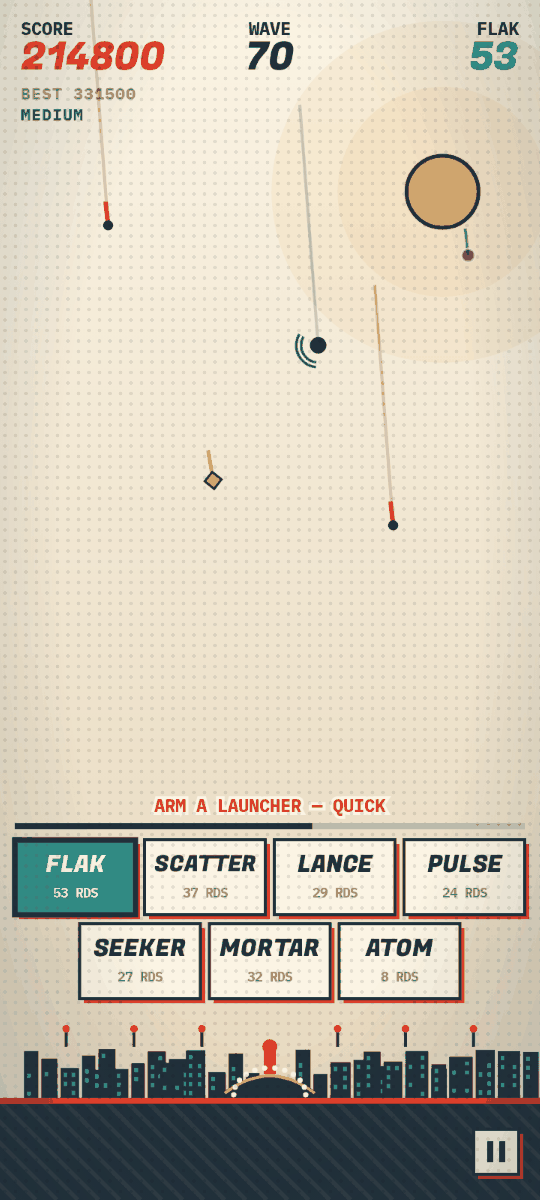
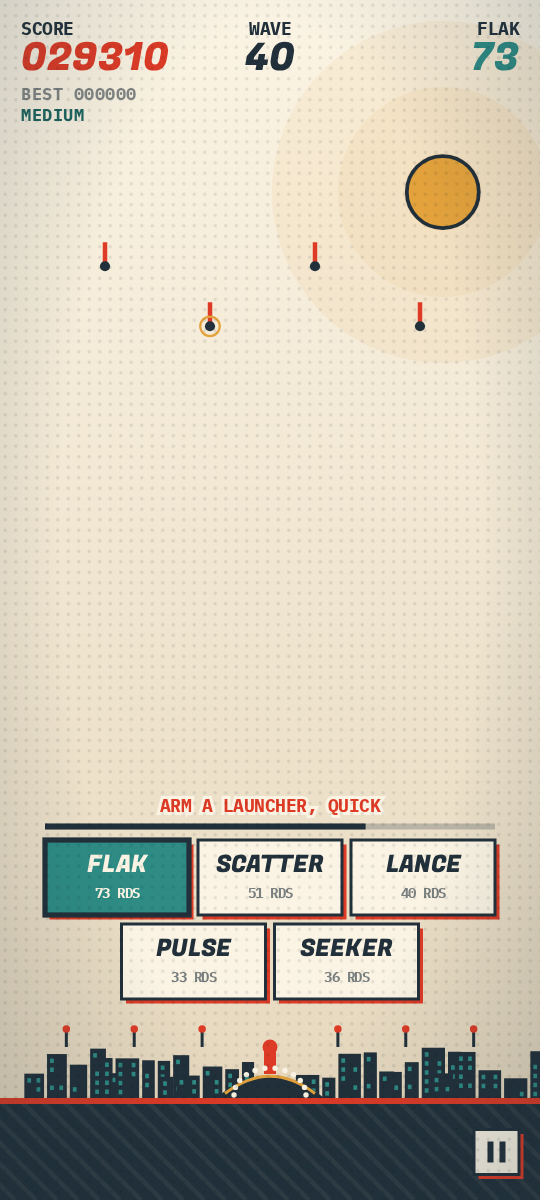
Stop the landing page naming the late threats, and rebuild the screenshots
The "What is coming for you" card listed the splitters, dodgers, armoured,
hunters, shielded, phantoms, burrowers and carriers by name, and the
screenshot caption counted them. Players are meant to meet those without
introduction, which is why the store description already stopped naming
them.

Four screenshots rebuilt from the committed tool at the same time.

These changes were already written and sitting uncommitted in the working
tree; this commit only records them, so they reach the live site with the
availability fix rather than being left behind by it.

Claude-Session: https://claude.ai/code/session_01GUrVy3MhHNLtC6Zt6tLXUq

diff --git a/atomic-defence/demo/index.html b/atomic-defence/demo/index.html
@@ -252,6 +252,10 @@ function saveSettings() {
 /* ------------------------------------------------------------------ */
 const nativeHaptics = (window.Capacitor && window.Capacitor.Plugins &&
                        window.Capacitor.Plugins.AtomicHaptics) || null;
+/* Present only inside the packaged app, which is exactly where a rating
+   button makes sense: there is nothing to rate from the web demo. */
+const nativeStore = (window.Capacitor && window.Capacitor.Plugins &&
+                     window.Capacitor.Plugins.AtomicStore) || null;
 // Web fallback: the Vibration API has no amplitude, so only duration varies.
 const HAPTIC_FALLBACK = {
   launch:      12,
@@ -337,6 +341,47 @@ let score = 0, highScore = loadHighScore(), wave = 0;
 let shots = 0, kills = 0, bestChain = 1;
 
 /* High score table: local top 10, arcade three-initial entries. */
+/* In-app review, at a natural moment rather than behind a button. Google bars
+   the API from call-to-action buttons, because the quota may silently show
+   nothing and a dead button reads as broken; the RATE THIS GAME plate is a
+   plain store intent for that reason. This is the case the API is actually
+   for: "a strategic moment in the user journey (after they've used enough of
+   the app)". Asked once, on the menu, after a few finished runs, and never
+   preceded by a question of our own, which the guidance also forbids. */
+const PLAYS_KEY = 'atomic-defence.plays';
+const RATE_KEY = 'atomic-defence.rateAsked';
+const RATE_MIN_RUNS = 3;        // never on a first flush of beginner's luck
+let ratePending = 0;            // seconds left to wait once back at the menu
+
+/* Called when a run ends, with whether it ended WELL: a new personal best, a
+   place on the local table, or the whole game finished. Asking after a good
+   run rather than after a fixed count of them puts the question where the
+   player is pleased with themselves. The run count still applies, because on
+   an empty table the very first run qualifies for it by default. */
+function finishRun(good) {
+  let plays;
+  try {
+    plays = (parseInt(localStorage.getItem(PLAYS_KEY), 10) || 0) + 1;
+    localStorage.setItem(PLAYS_KEY, String(plays));
+    if (localStorage.getItem(RATE_KEY) === '1') return;
+  } catch (e) { return; }       // private mode: no counter, so never ask
+  if (good && plays >= RATE_MIN_RUNS && nativeStore) ratePending = 0.9;
+}
+
+/* Fires on the menu rather than over the game-over card, so the card is not
+   buried and the player is not asked to rate the moment they lost. */
+function maybeReview(dt) {
+  if (!ratePending || mode !== MODE.MENU) return;
+  ratePending -= dt;
+  if (ratePending > 0) return;
+  ratePending = 0;
+  try { localStorage.setItem(RATE_KEY, '1'); } catch (e) {}
+  // Play decides whether the card appears and tells us nothing useful either
+  // way. Nothing depends on the outcome and the player is never told it was
+  // attempted, so there is nothing to report and nothing to draw.
+  nativeStore.review().catch(() => {});
+}
+
 const TABLE_KEY = 'atomic-defence.table';
 const TABLE_MAX = 10;
 function loadTable() {
@@ -463,6 +508,19 @@ const THREAT_SCORE = {
   std: 100, smart: 150, heavy: 300, bomber: 250,
   hunter: 350, shielded: 400, phantom: 450, burrower: 500, carrier: 800
 };
+/* Roughly what each threat costs to put down, in rounds, against a plain
+   warhead at 1.0. Armour soaks a hit, shields waste one outright, dodgers and
+   phantoms make you miss. The magazine is scaled by the wave's average so a
+   late mix of the awkward ones does not quietly starve you. */
+const THREAT_COST = {
+  std: 1, smart: 1.35, heavy: 2.2, hunter: 1.5,
+  shielded: 1.8, phantom: 1.6, burrower: 1.45
+};
+/* How often a kill takes the warhead's payload with it, and how far that
+   secondary reaches. A plain flak burst is 58, so a cook-off covers rather
+   more than two and a half times the area and is worth chasing. */
+const COOKOFF_CHANCE = 0.16;
+const COOKOFF_R = 96;
 
 /* ------------------------------------------------------------------ */
 /* Launchers                                                          */
@@ -492,6 +550,10 @@ const LAUNCHERS = [
 const LAUNCHER_BY_ID = {};
 LAUNCHERS.forEach(l => { LAUNCHER_BY_ID[l.id] = l; });
 
+/* Half-width of the lance's kill corridor. The beam is drawn from this same
+   number, so what it sweeps is what it looks like it sweeps. */
+const LANCE_R = 34;
+
 let launcher = 'flak';          // chosen for the current wave
 let pickTimer = 0;              // seconds left to choose; 0 = choice closed
 let shotsThisWave = 0;
@@ -505,7 +567,8 @@ function launcherAmmoFactor() {
 }
 function baseAmmo(cfg, l) {
   const factor = l ? l.ammo : launcherAmmoFactor();
-  return Math.max(3, Math.round((11 + cfg.count * 0.9) * factor * diff().ammo));
+  return Math.max(3, Math.round((11 + cfg.count * 0.9) * mixCost(wave)
+                                * factor * diff().ammo));
 }
 function chooseLauncher(id) {
   if (!LAUNCHER_BY_ID[id] || wave < LAUNCHER_BY_ID[id].unlock) return;
@@ -534,6 +597,17 @@ function threatWeights(w) {
     phantom:  ramp(THREAT_INTRO.phantom,  0.50, 13),
     burrower: ramp(THREAT_INTRO.burrower, 0.40, 11)
   };
+}
+
+/* The average round-cost of the wave's mix: 1.0 while it is all plain
+   warheads, and climbing as the harder types take over the roster. Feeds
+   straight into the magazine, so the flak allowance tracks what is actually
+   falling rather than just how much of it there is. */
+function mixCost(w) {
+  const ws = threatWeights(w);
+  let total = 0, cost = 0;
+  for (const k in ws) { total += ws[k]; cost += ws[k] * (THREAT_COST[k] || 1); }
+  return total > 0 ? cost / total : 1;
 }
 
 function rollThreatType() {
@@ -605,16 +679,18 @@ function spawnExplosion(x, y, chain, hostile, opts) {
     spokes: 7 + Math.floor(Math.random() * 4),
     rot: Math.random() * Math.PI
   });
-  for (let i = 0; i < (hostile ? 10 : 16); i++) {
+  const shards = opts.cookoff ? 30 : (hostile ? 10 : 16);
+  for (let i = 0; i < shards; i++) {
     const a = Math.random() * Math.PI * 2, sp = 40 + Math.random() * 140;
     particles.push({
       x, y, vx: Math.cos(a) * sp, vy: Math.sin(a) * sp - 30,
       life: 0.5 + Math.random() * 0.5, t: 0,
-      col: hostile ? PALETTE.red : (chain ? PALETTE.gold : PALETTE.teal),
+      col: hostile ? PALETTE.red : (chain || opts.cookoff ? PALETTE.gold : PALETTE.teal),
       size: 1.5 + Math.random() * 2.5
     });
   }
   if (hostile) boom(0.14, 0.3);
+  else if (opts.cookoff) SFX.chain(5);
   else if (chain) SFX.chain(Math.min(chain, 6));
   else SFX.burst();
 }
@@ -640,8 +716,20 @@ function killMissile(j, m, chain) {
   const pts = addScore(THREAT_SCORE[m.type] * chain);
   addFloater(m.x, m.y - 10, chain > 1 ? `${pts} ×${chain}` : `${pts}`,
              chain > 1 ? PALETTE.gold : PALETTE.teal, chain > 2);
-  spawnExplosion(m.x, m.y, chain, false);
-  shake = Math.min(10, shake + 1.5 + chain);
+  // Now and then the warhead's own payload goes up with it. The secondary is
+  // wide enough to take the neighbours too, which is the whole point of it.
+  const cookoff = Math.random() < COOKOFF_CHANCE;
+  if (cookoff) {
+    spawnExplosion(m.x, m.y, chain, false,
+                   { maxR: COOKOFF_R, hold: 0.5, col: PALETTE.gold, cookoff: true });
+    addFloater(m.x, m.y + 14, 'COOK-OFF!', PALETTE.gold, false);
+    haptic('armour');
+  } else {
+    spawnExplosion(m.x, m.y, chain, false);
+  }
+  // One clamp, applied once, or the cook-off kick would be capped straight
+  // back down to the ordinary ceiling on the very next line.
+  shake = Math.min(cookoff ? 16 : 10, shake + 1.5 + chain + (cookoff ? 6 : 0));
 }
 
 function killBomber(j, b, chain, src) {
@@ -793,11 +881,16 @@ function destroyCity(city) {
     // Delay the game-over card a beat so the impact reads.
     setTimeout(() => {
       if (!cities.some(c => c.alive)) {
+        // Both judged BEFORE highScore is raised and before the table is
+        // touched, or a new best could never be seen from here.
+        const beatBest = score > highScore;
+        const tabled = qualifies(score);
         highScore = Math.max(highScore, score);
         saveHighScore(highScore);
         SFX.gameOver();
         haptic('gameover');
-        if (qualifies(score)) { entryName = ''; mode = MODE.ENTRY; }
+        finishRun(beatBest || tabled);
+        if (tabled) { entryName = ''; mode = MODE.ENTRY; }
         else mode = MODE.GAME_OVER;
       }
     }, 900);
@@ -809,6 +902,7 @@ function destroyCity(city) {
 /* ------------------------------------------------------------------ */
 function update(dt) {
   titlePulse += dt;
+  maybeReview(dt);
   shake = Math.max(0, shake - dt * 40);
   flash = Math.max(0, flash - dt * 1.8);
   slowMo += (1 - slowMo) * Math.min(1, dt * 2.5);
@@ -1023,14 +1117,14 @@ function update(dt) {
         for (let j = missiles.length - 1; j >= 0; j--) {
           const m = missiles[j];
           if (it.hitBy.indexOf(m) !== -1) continue;
-          if (Math.hypot(m.x - it.x, m.y - it.y) < 16) {
+          if (Math.hypot(m.x - it.x, m.y - it.y) < LANCE_R) {
             it.hitBy.push(m);
             damageMissile(j, m, 1, it, it.x, it.y);
           }
         }
         for (let j = bombers.length - 1; j >= 0; j--) {
           const b = bombers[j];
-          if (Math.hypot(b.x - it.x, b.y - it.y) < 18) killBomber(j, b, 1, it);
+          if (Math.hypot(b.x - it.x, b.y - it.y) < LANCE_R + 2) killBomber(j, b, 1, it);
         }
         if (it.y < -30 || it.x < -30 || it.x > W + 30 || it.y > groundY) {
           interceptors.splice(i, 1);
@@ -1102,6 +1196,7 @@ function update(dt) {
         saveHighScore(highScore);
       } else if (wave >= FINAL_WAVE) {
         // The card comes first; the score table can wait for a tap.
+        finishRun(true);
         mode = MODE.VICTORY;
         highScore = Math.max(highScore, score);
         saveHighScore(highScore);
@@ -1501,12 +1596,26 @@ function drawInterceptor(it) {
   ctx.strokeStyle = 'rgba(46,140,133,0.35)';
   ctx.lineWidth = isLance ? 3 : 2;
   ctx.beginPath(); ctx.moveTo(it.ox, it.oy); ctx.lineTo(it.x, it.y); ctx.stroke();
+  const len = Math.hypot(it.vx, it.vy) || 1;
+  // The lance is drawn long as well as wide: it kills everything its circle
+  // crosses as it travels, so a stubby head would read as a blob, not a spear.
+  const tl = isLance ? 96 : 14;
+  const hx = it.x - it.vx / len * tl, hy = it.y - it.vy / len * tl;
+  // The lance sweeps a corridor far wider than a shell, so it is drawn wide
+  // enough to own it. Anything it kills is inside the glow you can see.
+  if (isLance) {
+    ctx.save();
+    ctx.lineCap = 'round';
+    ctx.strokeStyle = lc.col;
+    ctx.beginPath(); ctx.moveTo(hx, hy); ctx.lineTo(it.x, it.y);
+    ctx.globalAlpha = 0.13; ctx.lineWidth = LANCE_R * 2; ctx.stroke();
+    ctx.globalAlpha = 0.28; ctx.lineWidth = LANCE_R;     ctx.stroke();
+    ctx.restore();
+  }
   ctx.strokeStyle = lc.col;
   ctx.lineWidth = isLance ? 5 : 3;
-  const len = Math.hypot(it.vx, it.vy) || 1;
-  const tl = isLance ? 46 : 14;
   ctx.beginPath();
-  ctx.moveTo(it.x - it.vx / len * tl, it.y - it.vy / len * tl);
+  ctx.moveTo(hx, hy);
   ctx.lineTo(it.x, it.y);
   ctx.stroke();
   if (it.kind === 'atom') {
@@ -1579,8 +1688,15 @@ function drawHUD() {
   const lc = LAUNCHER_BY_ID[launcher] || LAUNCHERS[0];
   ctx.fillText(lc.name, W - padR, padT);
   ctx.font = '26px "Fugaz One", sans-serif';
-  ctx.fillStyle = ammo > 3 ? lc.col : PALETTE.red;
+  const lowAmmo = ammo <= 3;
+  ctx.fillStyle = lowAmmo ? PALETTE.red : lc.col;
+  // Red against the ink of the wave counter beside it is the one warning in
+  // the game carried by colour alone, and red-green colour blindness flattens
+  // both to the same dark olive. So the count pulses as well. About 1.6Hz,
+  // comfortably under the three-flashes-a-second guidance.
+  if (lowAmmo) ctx.globalAlpha = 0.55 + 0.45 * Math.abs(Math.sin(titlePulse * 5));
   ctx.fillText(String(ammo), W - padR, padT + 14);
+  ctx.globalAlpha = 1;
 
   if (mode === MODE.PLAYING) {
     // Pause plate tucked into the ground strip, clear of the sky and battery.
@@ -1716,7 +1832,9 @@ function drawMenu() {
     ctx.fillText('BEST ' + String(highScore).padStart(6, '0'), W / 2, cy + (small ? 58 : 70));
   }
   const bw = Math.min(W * 0.62, 260);
-  const by = Math.min(H * 0.44, H - 300);
+  // The reserve grows only when the rate plate is actually going to be drawn,
+  // so the web build and the demo keep the exact layout they already had.
+  const by = Math.min(H * 0.44, H - (nativeStore ? 346 : 300));
   button((W - bw) / 2, by, bw, 56, 'PLAY', () => {
     resetGame();
     restartLockUntil = performance.now() + 300;
@@ -1726,6 +1844,14 @@ function drawMenu() {
     () => { entryIdx = -1; mode = MODE.SCORES; });
   difficultyRow(by + 188);
   toggleRow(by + 246);
+  if (nativeStore) {
+    button((W - bw) / 2, by + 294, bw, 34, 'RATE THIS GAME', () => {
+      haptic('ui');
+      // A rejection means the device has neither Play nor a browser. Nothing
+      // useful to say about that, so the plate just does nothing.
+      nativeStore.rate().catch(() => {});
+    });
+  }
 }
 
 /* Four plates, the chosen one filled. Score multiplier is shown because it is
@@ -2024,9 +2150,8 @@ function render() {
       'A NEW LAUNCHER EVERY TENTH WAVE',
       { text: 'PICK ONE FAST. NOTHING PAUSES', col: PALETTE.red },
       'ITS AMMO IS ALL YOU GET',
-      'SHIELDS BLOCK ONE SIDE ONLY',
-      'HUNTERS EAT YOUR OWN ROUNDS',
-      'DIG BURROWERS OUT BEFORE THE FUSE',
+      // The card covers the controls and nothing else. What turns up in the
+      // later waves is not named, described, or hinted at.
       // How far it goes is for players to find out, so nothing states the
       // total — not the demo, not the game, and not the store screenshots.
       { text: 'SEE HOW FAR YOU GET', col: PALETTE.gold }

diff --git a/atomic-defence/index.html b/atomic-defence/index.html
@@ -224,7 +224,7 @@ main { max-width:46rem; margin:0 auto; padding:0 14px; }
   <section class="shots" aria-label="Screenshots">
     <figure><img src="shots/2-action.png" alt="Warheads descending on the cities as flak bursts intercept them" width="540" height="1200" loading="lazy"><figcaption>Chain the blasts</figcaption></figure>
     <figure><img src="shots/3-launchers.png" alt="The launcher selection strip with a draining timer, mid-wave" width="540" height="1200" loading="lazy"><figcaption>Choose under fire</figcaption></figure>
-    <figure><img src="shots/4-threats.png" alt="A late wave with shielded, phantom, hunter and burrower threats plus a carrier airship" width="540" height="1200" loading="lazy"><figcaption>Nine kinds of trouble</figcaption></figure>
+    <figure><img src="shots/4-threats.png" alt="A late wave, the sky crowded with descending threats" width="540" height="1200" loading="lazy"><figcaption>It gets worse</figcaption></figure>
     <figure><img src="shots/5-scores.png" alt="The local top ten high score table" width="540" height="1200" loading="lazy"><figcaption>Top ten, earned</figcaption></figure>
   </section>
 
@@ -247,14 +247,11 @@ main { max-width:46rem; margin:0 auto; padding:0 14px; }
 
   <section class="card">
     <h2>What is coming for you</h2>
-    <p>Warheads that split apart at low altitude. Dodgers swerve away from your
-    blasts. The armoured ones shed their plating before they die. Hunters do not
-    care about the cities at all and will eat your rounds in mid-air instead. Get
-    a shielded warhead from the wrong side and the plate simply absorbs it.
-    Phantoms fade out between explosions, so you learn to shoot where one ought
-    to be. Burrowers do not go off when they land: they dig in, and you have a
-    few seconds to blast them out before they take the city anyway. Above all
-    that, bomber patrols, and carrier airships that need three hits.</p>
+    <p>Plain warheads, at first. They do not stay plain. What falls in the later
+    waves behaves nothing like what you learned to shoot in the early ones, and
+    every new kind of it turns up without introduction. Some of them will not die
+    the way you expect them to. Reading the sky quickly enough to work out which
+    is which, while it is all still coming down, is most of the game.</p>
   </section>
 
   <section class="card promises">
